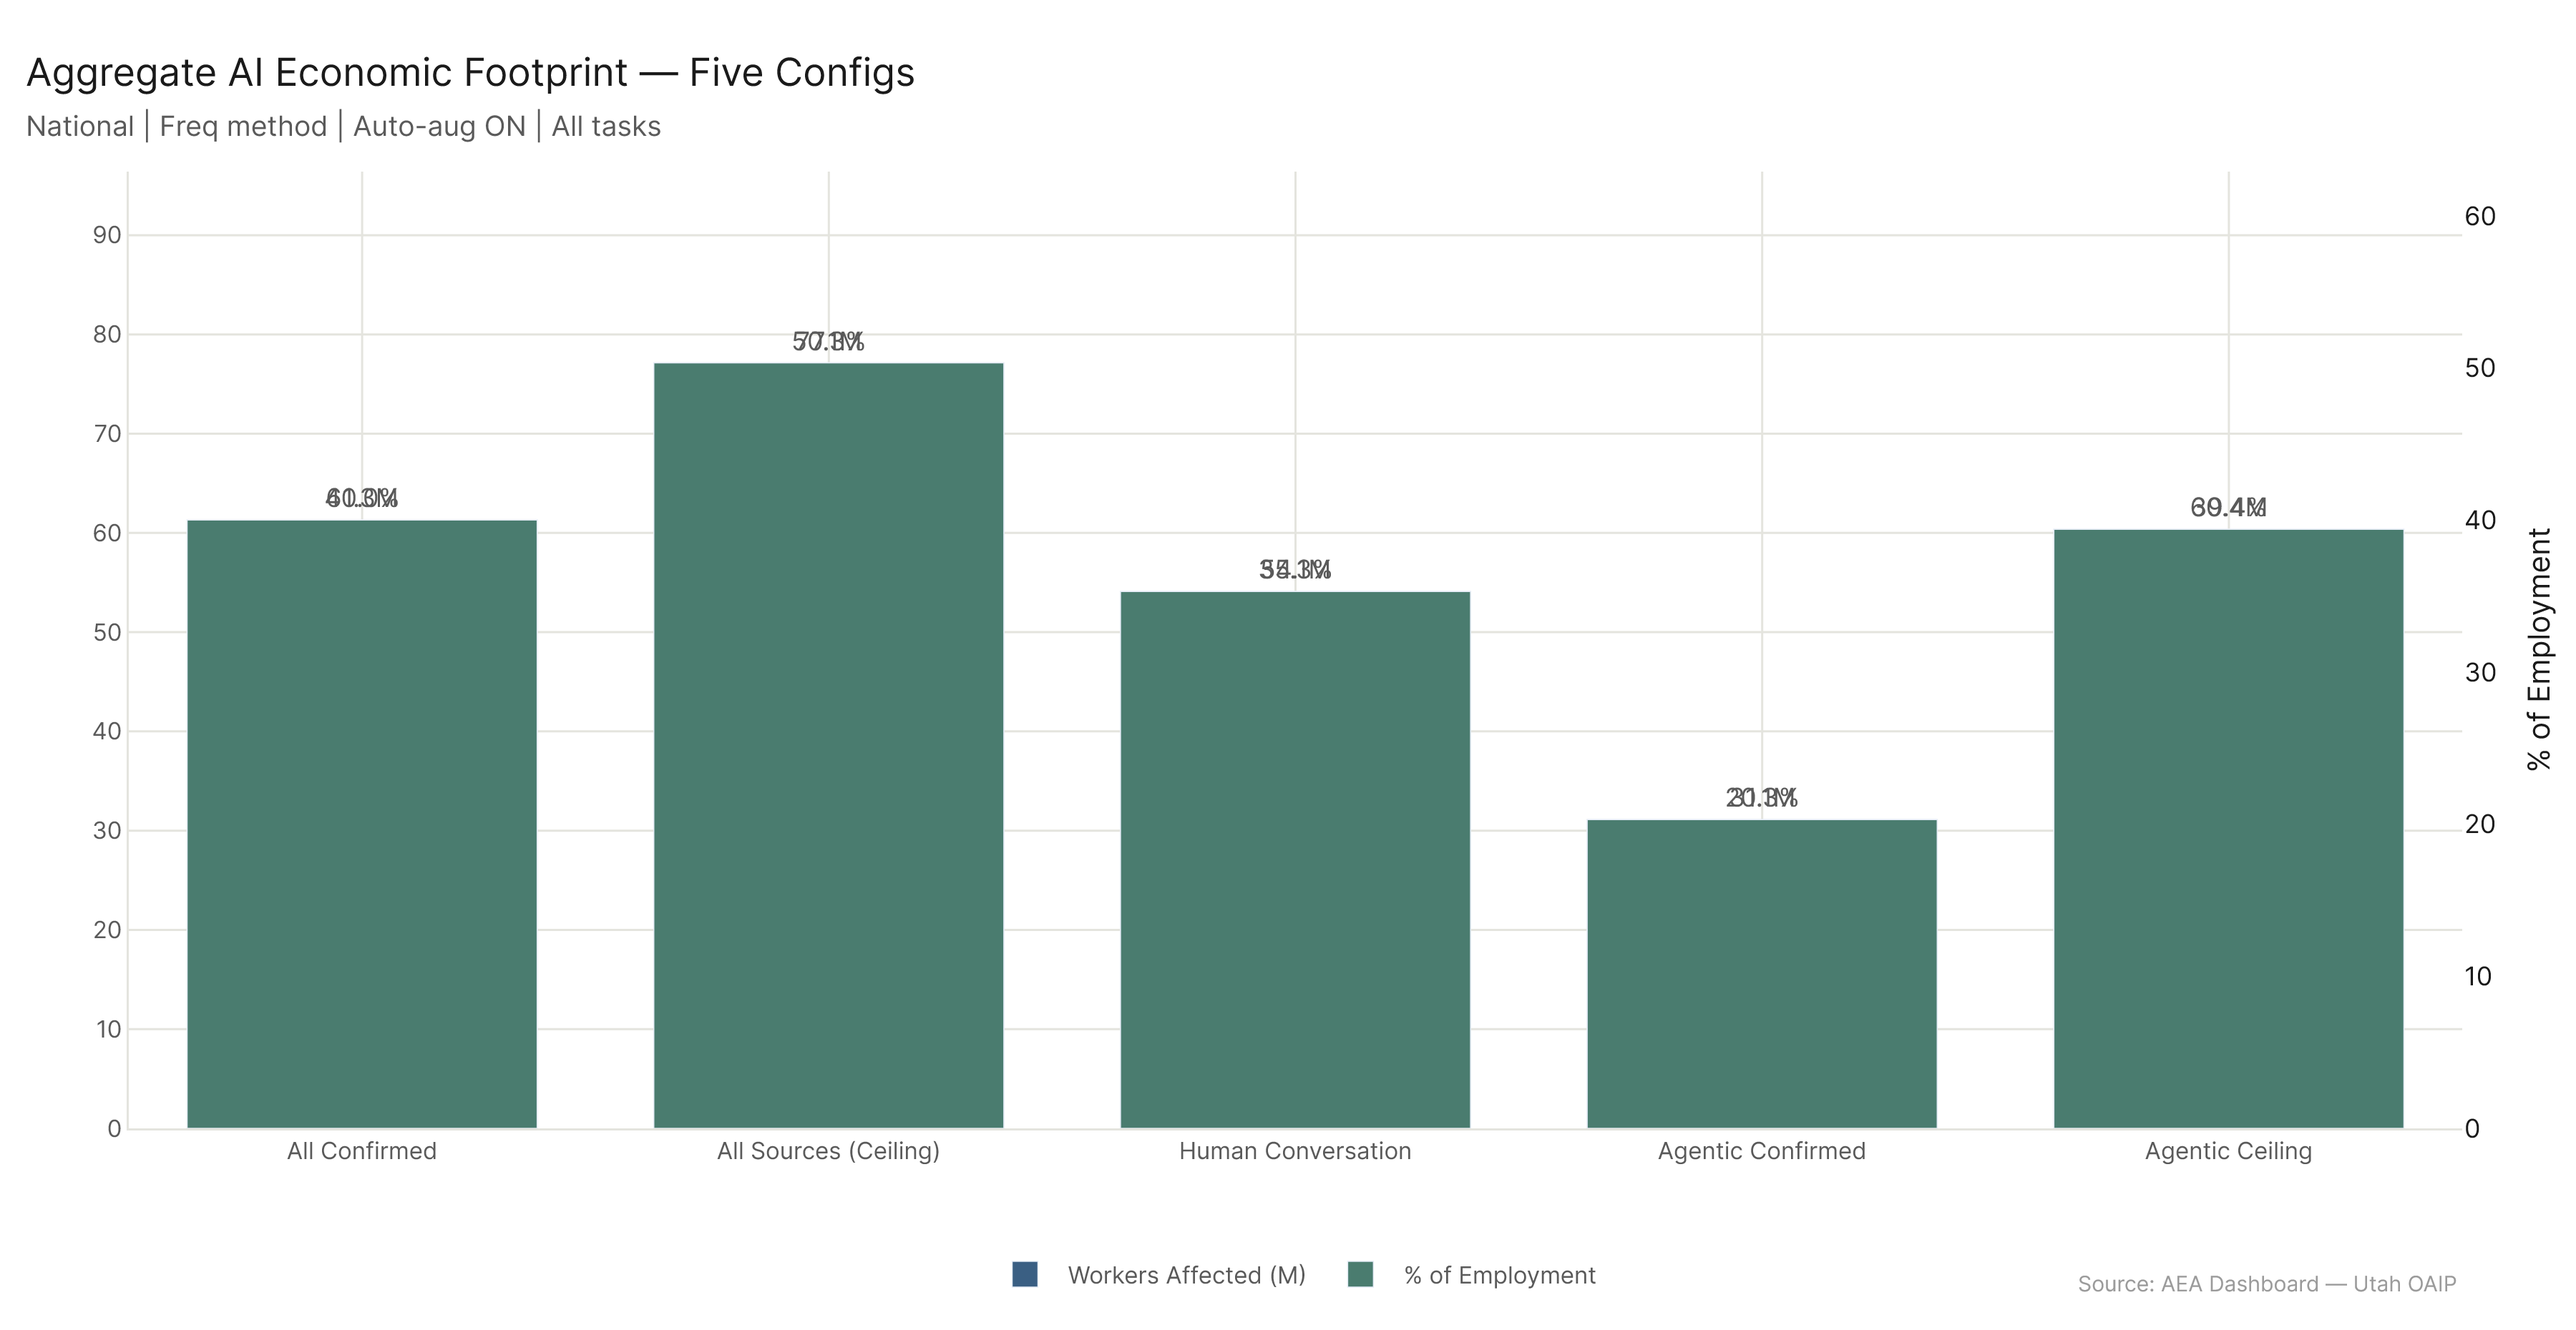
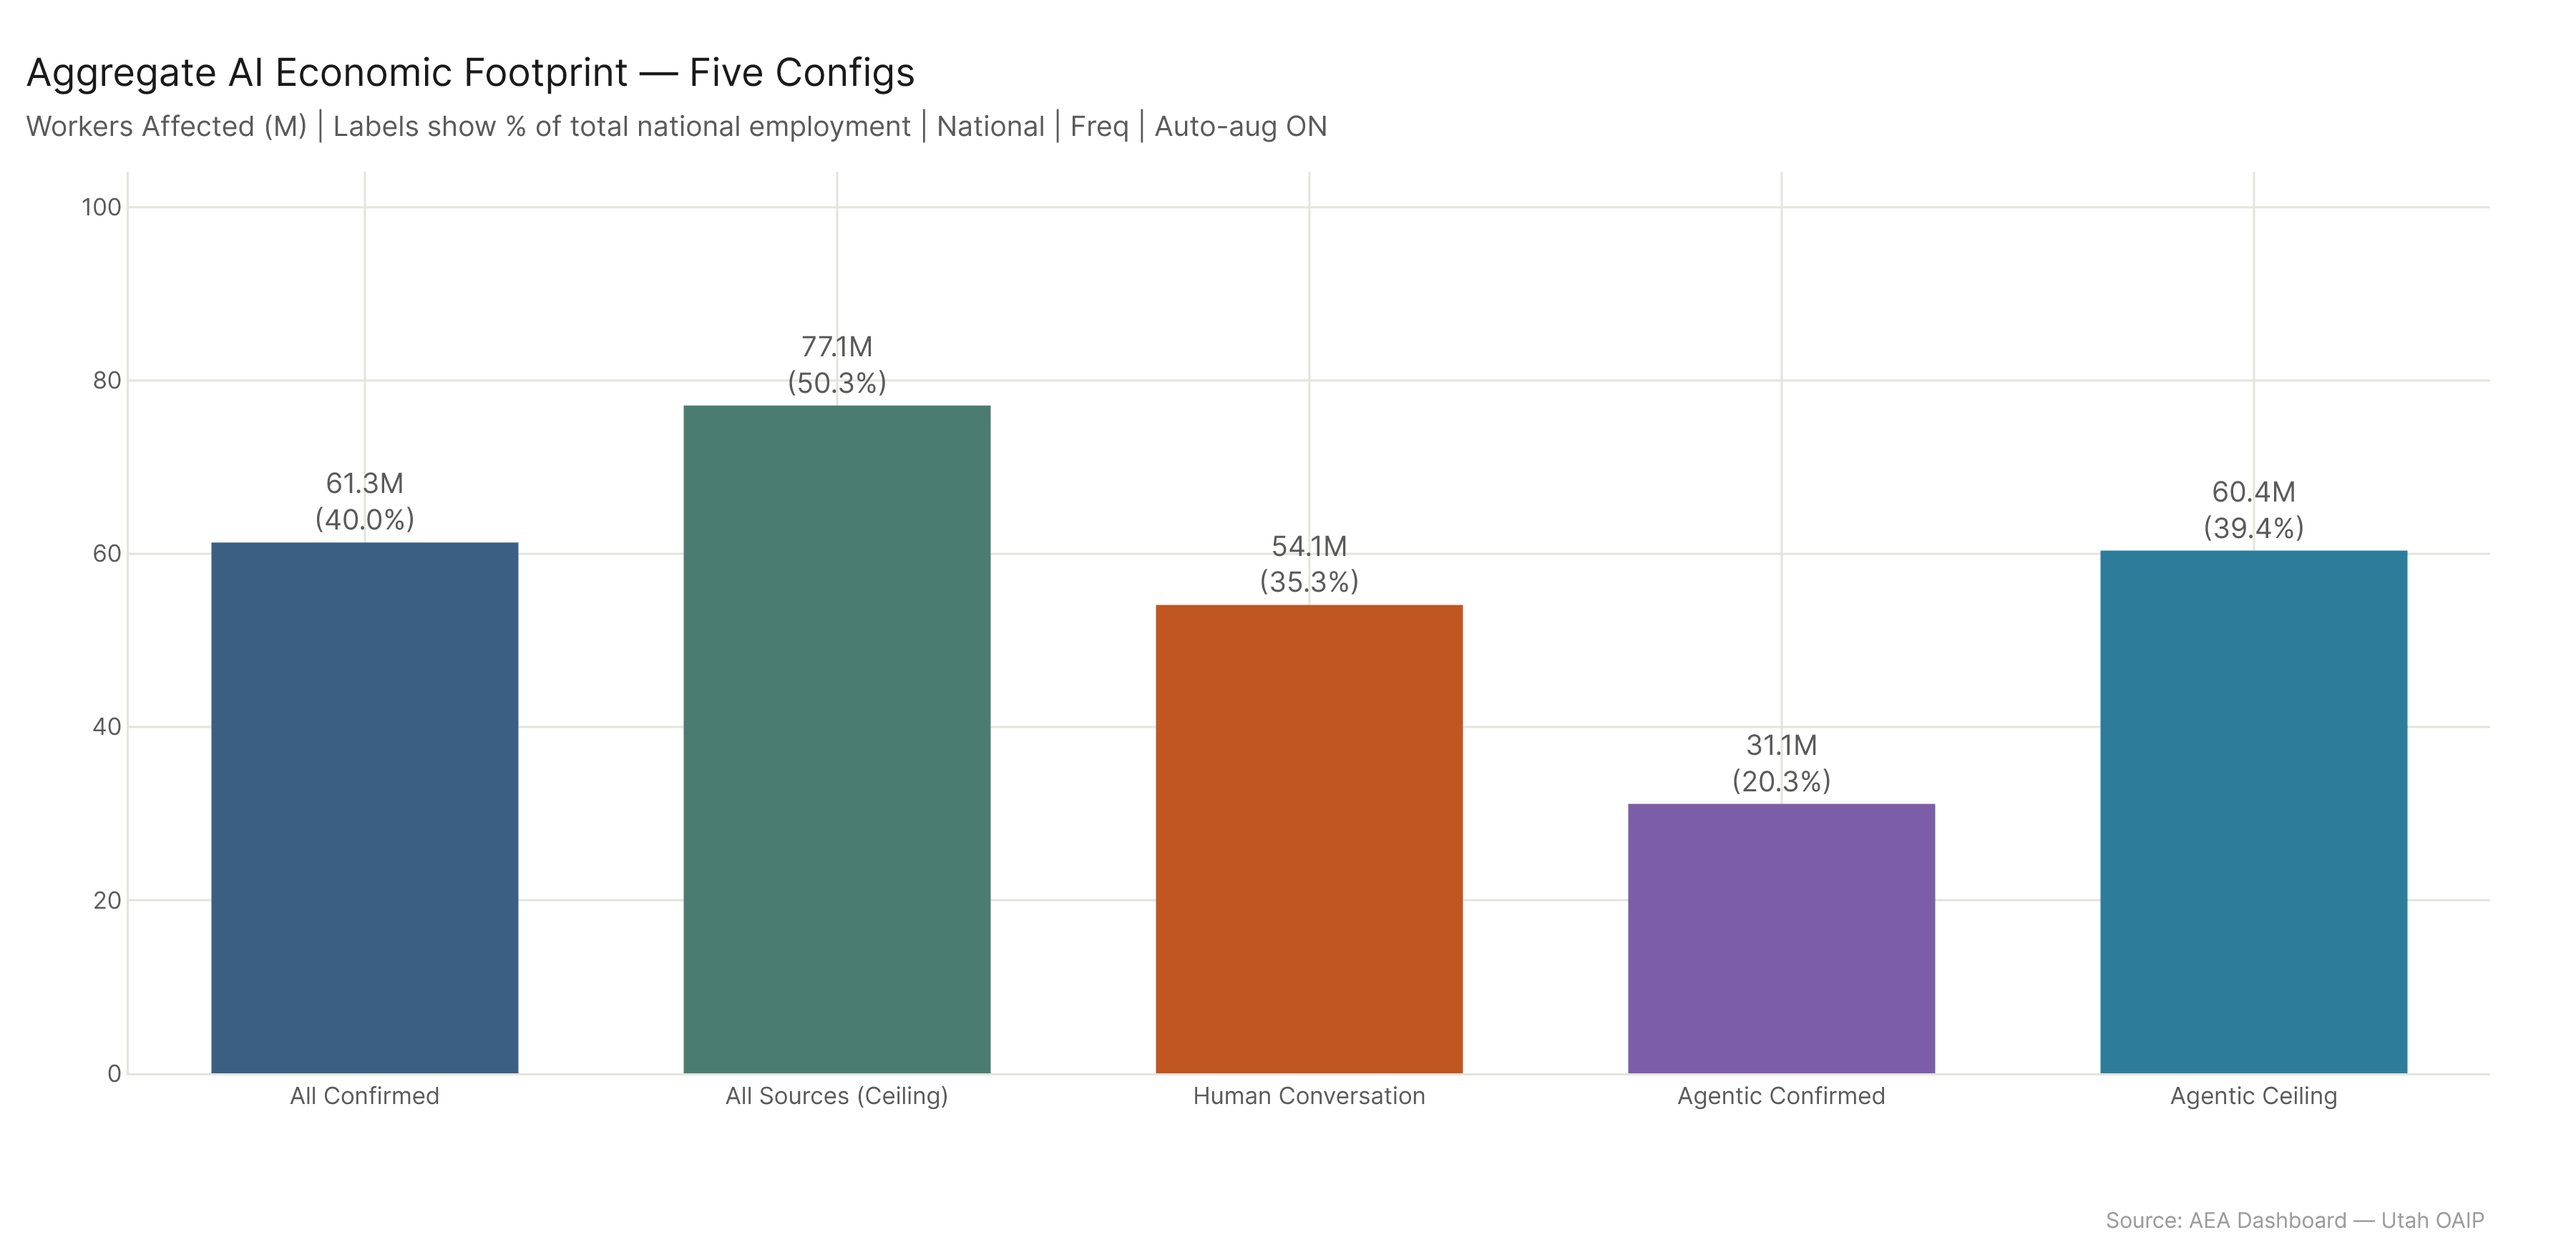
Fix aggregate_totals chart: single bar per config with annotated labels
Replace the broken dual-y-axis grouped bar (workers M on y1, % of employment
on y2) with a single-metric bar chart. The dual-axis approach placed both bar
series at nearly identical heights (~61M ≈ 40%) causing them to overlap
completely and stack their text labels. Now shows one colored bar per config
with the label "{W}M\n({P}%)" above each bar — all data visible, no overlap.

diff --git a/analysis/questions/economic_footprint/sector_footprint/run.py b/analysis/questions/economic_footprint/sector_footprint/run.py
@@ -157,60 +157,46 @@ def compute_aggregate_total(occ_df: pd.DataFrame, config_key: str, config_label:
 # ── Figure builders ────────────────────────────────────────────────────────────
 
 def _build_aggregate_bar(totals_df: pd.DataFrame) -> go.Figure:
-    """Grouped bar: workers/pct across 5 configs."""
+    """Bar: workers affected (M) across 5 configs, annotated with % of employment."""
     configs = totals_df["config_label"].tolist()
     workers_m = [w / 1e6 for w in totals_df["workers_affected"]]
     pct = totals_df["pct_of_employment"].tolist()
-
     max_workers = max(workers_m)
-    max_pct = max(pct)
 
-    fig = go.Figure()
-    fig.add_trace(go.Bar(
-        name="Workers Affected (M)",
+    palette = CATEGORY_PALETTE
+    bar_colors = [palette[i % len(palette)] for i in range(len(configs))]
+
+    # Single bar per config showing workers; % of employment shown as inside label
+    bar_labels = [f"{w:.1f}M<br>({p:.1f}%)" for w, p in zip(workers_m, pct)]
+
+    fig = go.Figure(go.Bar(
         x=configs,
         y=workers_m,
-        marker_color=COLORS["primary"],
-        text=[f"{w:.1f}M" for w in workers_m],
+        marker=dict(color=bar_colors, line=dict(width=0)),
+        text=bar_labels,
         textposition="outside",
-        textfont=dict(size=12, color=COLORS["neutral"], family=FONT_FAMILY),
+        textfont=dict(size=13, color=COLORS["neutral"], family=FONT_FAMILY),
         cliponaxis=False,
-        yaxis="y1",
-    ))
-    fig.add_trace(go.Bar(
-        name="% of Employment",
-        x=configs,
-        y=pct,
-        marker_color=COLORS["secondary"],
-        text=[f"{p:.1f}%" for p in pct],
-        textposition="outside",
-        textfont=dict(size=12, color=COLORS["neutral"], family=FONT_FAMILY),
-        cliponaxis=False,
-        yaxis="y2",
     ))
 
     fig.update_layout(
-        barmode="group",
         yaxis=dict(
             title="Workers Affected (millions)",
-            side="left",
             showgrid=True,
             gridcolor=COLORS["grid"],
-            range=[0, max_workers * 1.25],
+            range=[0, max_workers * 1.35],
         ),
-        yaxis2=dict(
-            title="% of Employment",
-            side="right",
-            overlaying="y",
-            showgrid=False,
-            range=[0, max_pct * 1.25],
-        ),
-        bargap=0.25,
-        margin=dict(l=80, r=80, t=100, b=120),
+        xaxis=dict(tickfont=dict(size=12, family=FONT_FAMILY)),
+        bargap=0.35,
+        showlegend=False,
+        margin=dict(l=80, r=60, t=110, b=80),
     )
-    style_figure(fig, "Aggregate AI Economic Footprint — Five Configs",
-                 subtitle="National | Freq method | Auto-aug ON | All tasks",
-                 height=620, width=1200)
+    style_figure(
+        fig,
+        "Aggregate AI Economic Footprint — Five Configs",
+        subtitle="Workers Affected (M) | Labels show % of total national employment | National | Freq | Auto-aug ON",
+        height=580, width=1200,
+    )
     return fig
 
 
